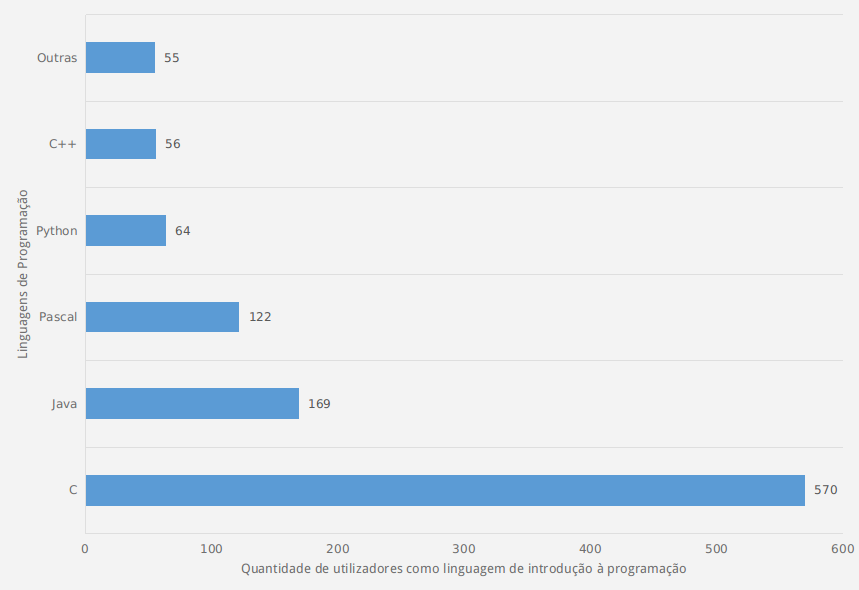
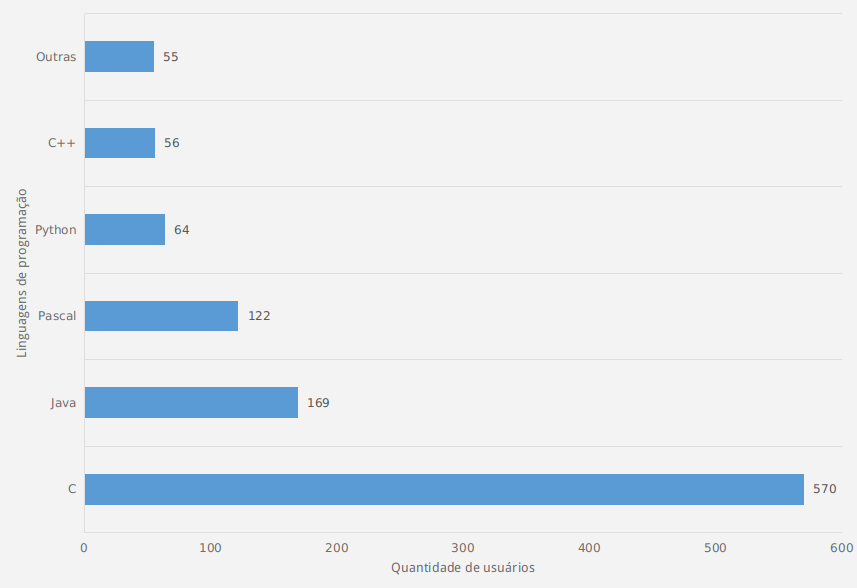
Changed bar graph and made minor fixed on the references

diff --git a/tex/main.tex b/tex/main.tex
@@ -272,9 +272,9 @@ Os artefatos gerados como resultado deste trabalho são os seguintes:
 \subsection{A biblioteca gráfica}
 A biblioteca gráfica descrita neste trabalho tem por intenção simplificar o uso da biblioteca OpenGL. Um dos meios utilizados para isso é a simplificação do gerenciamento da janela. Em uma aplicação OpenGL o utilizador é responsável por gerenciar tanto a janela quanto o contexto, e decidir como será realizada a renderização das formas dentro da janela. Nesta biblioteca, apesar de ainda possuir uma janela, ela é oculta e gerenciada pela própria biblioteca. Tal abordagem reduz a flexibilização oferecida pela biblioteca OpenGL, entretanto, em troca disso, obtemos uma API bastante simplificada.
 
-Para o correto funcionamento da biblioteca é necessário criar uma janela para realizar a renderização das formas; este é o padrão de funcionamento do OpenGL. Visando a simplicidade, todo o código de criação de janelas é abstraído em uma única função. Esta função realiza várias ações, como criar a janela do OpenGL, inicializar o buffer de objetos a serem renderizados, inicializar os \textit{locks} de exclusão mútua mutex para gerenciamento de concorrência no buffer de objetos e a inicialização da \textit{thread} que será responsável por toda a abstração de renderização do buffer de objetos na janela. Esta thread possui um laço de repetição onde é realizada a leitura do buffer de objetos contido na memória e então, renderiza os objetos de acordo com a configuração definida de cada objeto. A arquitetura proposta para a biblioteca pode ser vista na Figura ~\ref{fig:arquitetura_proposta}.
+Para o correto funcionamento da biblioteca é necessário criar uma janela para realizar a renderização das formas; este é o padrão de funcionamento do OpenGL. Visando a simplicidade, todo o código de criação de janelas é abstraído em uma única função. Esta função realiza várias ações, como criar a janela do OpenGL, inicializar o buffer de objetos a serem renderizados, inicializar os \textit{locks} de exclusão mútua \textit{mutex} para gerenciamento de concorrência no buffer de objetos e a inicialização da \textit{thread} que será responsável por toda a abstração de renderização do buffer de objetos na janela. Esta thread possui um laço de repetição onde é realizada a leitura do buffer de objetos contido na memória e então, renderiza os objetos de acordo com a configuração definida de cada objeto. A arquitetura proposta para a biblioteca pode ser vista na Figura ~\ref{fig:arquitetura_proposta}.
 
-O buffer de objetos em si também não pode ser gerenciado diretamente pelo usuário. As funções expostas pela biblioteca são responsáveis por gerenciar diretamente o buffer, minimizando assim a possibilidade de erros na hora de renderizar os objetos. Cada função que desenha uma forma adiciona no buffer de objetos a configuração  correspondente ao que deve ser desenhado. Na sequência, a thread oculta faz o lock exclusivo do buffer para que, no ato do desenho, ele não seja alterado e então, item a item, renderiza todos os objetos na janela. Após o o processo de renderização, é liberado o lock exclusivo, permitindo assim a manipulação do buffer de objetos. Este loop roda em torno de 60 vezes por segundo, podendo o número de execuções ser menor dependendo do hardware gráfico da máquina. Por se tratar de renderização de objetos muito básicos, espera-se que a média de quadros renderizados seja em torno de 60 FPS
+O buffer de objetos em si também não pode ser gerenciado diretamente pelo usuário. As funções expostas pela biblioteca são responsáveis por gerenciar diretamente o buffer, minimizando assim a possibilidade de erros na hora de renderizar os objetos. Cada função que desenha uma forma adiciona no buffer de objetos a configuração  correspondente ao que deve ser desenhado. Na sequência, a thread oculta faz o \textit{lock} exclusivo do buffer para que, no ato do desenho, ele não seja alterado e então, item a item, renderiza todos os objetos na janela. Após o o processo de renderização, é liberado o lock exclusivo, permitindo assim a manipulação do buffer de objetos. Este loop roda em torno de 60 vezes por segundo, podendo o número de execuções ser menor dependendo do hardware gráfico da máquina. Por se tratar de renderização de objetos muito básicos, espera-se que a média de quadros renderizados seja em torno de 60 FPS
 
 \begin{figure}[htbp]
   \centering
@@ -333,13 +333,17 @@ Os parâmetros de entrada são:
 \end{itemize}
 
 O exemplo abaixo mostra como inicializar a biblioteca em uma aplicação C:
-\begin{lstlisting}
+\begin{lstlisting}[caption={Inicializando a biblioteca},label={lst:inicializando_biblioteca},language=C]
 #include <stdio.h>
 #include <graphics.h>
 
-int main(void) {
+int main() {
     inicializarBiblioteca(800, 600);
-    
+
+    retangulo(0, 0, 200, 100);
+    limparTela();
+
+    getchar();
     return 0;
 }
 \end{lstlisting}
@@ -354,28 +358,7 @@ int main(void) {
 \subsubsection{Limpando a tela}
 A biblioteca descrita neste trabalho permite que a janela seja limpa, removendo assim todas os objetos renderizados e reiniciando a janela para seu estado inicial.
 
-A função que limpa a janela tem o seguinte protótipo:
-
-\begin{lstlisting}
-void limparTela();
-\end{lstlisting}
-
-O exemplo abaixo mostra como limpar a janela em uma aplicação C:
-
-\begin{lstlisting}
-#include <stdio.h>
-#include <graphics.h>
-
-int main() {
-    inicializarBiblioteca(800, 600);
-
-    retangulo(0, 0, 200, 100);
-    limparTela();
-
-    getchar();
-    return 0;
-}
-\end{lstlisting}
+A função que limpa a janela já foi utilizada anteriormente e pode ser encontrada no exemplo ~\ref{lst:inicializando_biblioteca}
 
 \subsubsection{Desfazer último desenho}
 Em uma aplicação é comum se arrepender de sua última ação e portanto, querer desfaze-la. A biblioteca aqui implementada possui uma função específica para esta ação. Ela pode ser utilizada múltiplas vezes e a cada vez um objeto é removido da tela.

diff --git a/test.c b/test.c
@@ -6,10 +6,7 @@ void showMenu();
 int main() {
     inicializarBiblioteca(1366, 768);
 
-    linha(
-        0, 0,
-        1366, 768
-    );
+    
 
     getchar();
     return 0;
